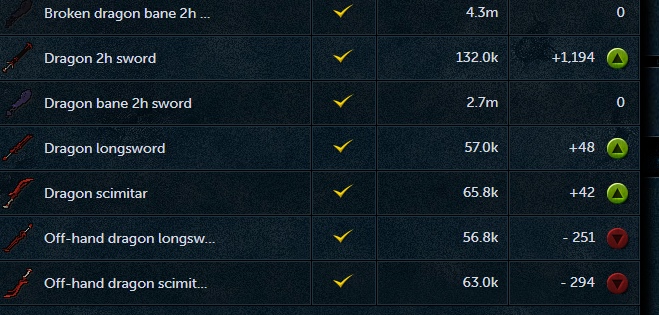
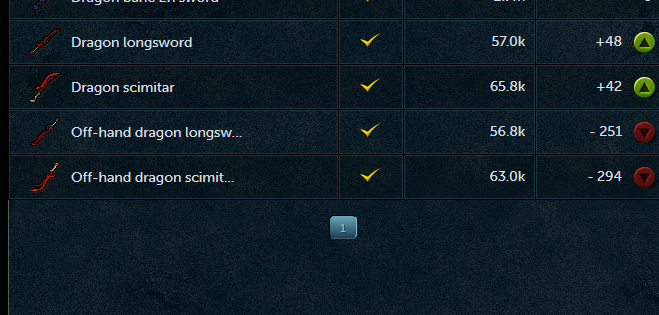
More fun

Changed region(s): [[0.0, 0.0, 1.0, 1.0], [0.698, 0.8571, 0.7891, 0.9143], [0.698, 0.7143, 0.7587, 0.7714]]

diff --git a/src/api/PowerSearch/PowerSearch.ts b/src/api/PowerSearch/PowerSearch.ts
@@ -2,6 +2,7 @@ import puppeteer from 'puppeteer';
 import * as cheerio from 'cheerio';
 import Handlebars from 'handlebars';
 import fs from 'fs';
+import { listenerCount } from 'process';
 
 interface ItemData {
   image: string,
@@ -38,7 +39,7 @@ const search = async (query: string) => {
     }
   }
 
-  const browser = await puppeteer.launch({ headless: false});
+  const browser = await puppeteer.launch({ headless: false, args: ['--start-maximized'], defaultViewport: null});
   const page = await browser.newPage();
   const log = console.log;
 
@@ -58,12 +59,15 @@ const search = async (query: string) => {
   await page.click('input.search-submit');
   await page.waitForNetworkIdle();
   const divCount = await doesSelectorExist(page, 'tbody');
+
   if (!divCount) {
     data.errors = true;
     data.errorMessages.push('No results found');
     console.log('No results found ... returning data and exiting session!');
+    // await browser.close();
     return data;
   };
+  
   const table = await page.$('#grandexchange > div > div.contents > main > div.content.roughTop > table > tbody');
   table?.screenshot({ path: 'table.png' });
 
@@ -81,7 +85,6 @@ const search = async (query: string) => {
     if (data?.pageData?.currentPage) {
       data.pageData.currentPage = i;
     }
-    console.log(`Page ${i} of ${data?.pageData?.totalPageNumber}`);
     // if i = total page number break
     if (i === data?.pageData?.totalPageNumber) {
       break;
@@ -94,32 +97,44 @@ const search = async (query: string) => {
   data.matchedResults = checkForMatches(query, data?.items ?? []);
   if (data.matchedResults?.length === 1) {
     data.exactMatch = data.matchedResults[0];
+    console.log('Exact match found!', data.exactMatch.name);
+    // await browser.close();
+    return data;
   }
 
   if (data.matchedResults?.length === 0 && data?.items?.length) {
-    data.errors = true;
-    data.errorMessages.push('No exact matches found');
-  }
-
-  console.log(data)
-  if (data?.items) {
-    screenShotResults(browser, data.items);
+    screenShotResults(browser, data?.items);
+    console.log('No exact match found, but results found!', data.items.length);
+    // await browser.close();
+    return data;
   }
 };
 
 const goToNextPage =  async (page: any, pageNumber: number) => {
+  console.log('tring to go to page: ', pageNumber);
   await page.waitForNetworkIdle();
-  await page.click(`#grandexchange > div > div.contents > main > div.content.roughTop > div > div > div > ul > li:nth-child(${pageNumber})`);
+  await page.waitForTimeout(1000);
+  const position = await page.$$eval('#grandexchange > div > div.contents > main > div.content.roughTop > div > div > div > ul > li', (el: any, pageNumber: number) => {
+    let stuff: any[] = [];
+    el.forEach((e: any, i: number) => {
+      stuff.push(el[i].innerText);
+    });
+    return stuff;
+  }, pageNumber);
+  console.log('position', position);
+  const truePostition = parseInt(position.findIndex((e: any) => parseInt(e) === pageNumber));
+  console.log('truePostition: ', truePostition);
+  await page.click(`#grandexchange > div > div.contents > main > div.content.roughTop > div > div > div > ul > li:nth-child(${truePostition + 1})`);
   await page.waitForNetworkIdle();
 }
 
 const getPageData = async function (page: any) {
   const trs = await page.evaluate(async () => {
-    const totalPages = document.querySelectorAll('#grandexchange > div > div.contents > main > div.content.roughTop > div > div > div > ul > li');
+    const totalPages = document.querySelectorAll('#grandexchange > div > div.contents > main > div.content.roughTop > div > div > div > ul > li:last-child')[0].querySelector('a')?.innerText?? '1';
     const currentPageNumber = document.querySelectorAll('#grandexchange > div > div.contents > main > div.content.roughTop > div > div > div > ul > li.current')[0];
     const data: PageData = {
       currentPage: parseInt(currentPageNumber.querySelectorAll('a')[0].innerText),
-      totalPageNumber: totalPages.length,
+      totalPageNumber: parseInt(totalPages),
     }
     return data;
   });
@@ -157,38 +172,35 @@ const doesSelectorExist = async (page: any, selector: string): Promise<boolean> 
   return await page.$(selector)? true: false;
 }
 
-const checkForMatches = (query: string, item: ItemData[]): ItemData[] => {
+const checkForMatches = (query: string, item: any): ItemData[] => {
   const match = item.filter((item: any) => {
     return item.name.toLowerCase() === query.toLowerCase();
   });
-  console.log('this is match count', match.length);
   return match;
 }
 
 
 const getHandleBarsTemplateFile = (): string => {
-  return fs.readFileSync(`./ResultsTable.hbs`, 'utf8');
+  return fs.readFileSync(`./src/api/PowerSearch/ResultsTable.hbs`, 'utf8');
 }
 
 const getHandleBarsTemplateCompiled = (items: any): any =>{
   return Handlebars.compile(getHandleBarsTemplateFile())(items);
 }
 
-const screenShotResults = async (browser: any, dataItems: DataReturn) => {
+const screenShotResults = async (browser: any, dataItems: any) => {
   const page = await browser.newPage();
-  await page.setViewport({
-    width: 1280,
-    height: 800,
-  });
+
   const build = {
     name: 'trey',
     items: { ...dataItems }
   }
   await page.setContent(getHandleBarsTemplateCompiled({ data: build.items }));
   const table = await page.$('body > div > div > table');
-  console.log('We are after table');
-  await table.screenshot({ path: 'choiceResult.png' });
-  await page.close();
+  // get height and width of element
+  const { height, width } = await table.boundingBox();
+  await page.screenshot({'path': 'choiceResult.png', 'clip': {'x': 0, 'y': 0, 'width': width, 'height': height } });  
+  page.close();
 }
 
-search('dragon sword');
+export { search };

diff --git a/src/commands/slash/price-check/price-check.ts b/src/commands/slash/price-check/price-check.ts
@@ -1,0 +1,71 @@
+import {
+  ButtonInteraction,
+  CommandInteraction,
+  MessageButton,
+  MessageActionRow,
+  MessageEmbed
+} from "discord.js";
+import { ButtonComponent, Discord, Slash, SlashOption } from "discordx";
+import { UserData } from '../../../api/UserData.js';
+import { Hbs } from '../../../api/HBars.js';
+import { search } from '../../../api/PowerSearch/PowerSearch.js';
+
+const hbs = new Hbs(import.meta.url);
+
+@Discord()
+class buttonExample {
+  id!: string;
+  itemName!: string;
+  @Slash("price-check")
+  async priceCheck(
+    @SlashOption("item-name", { type: "STRING", description: "The item name to search" })
+    itemName: string,
+    interaction: CommandInteraction
+  ) {
+    if (!itemName) {
+      await interaction.deferReply();
+      return interaction.editReply("You need to provide an item name 😬");
+    }
+    this.itemName = itemName;
+    const itemData = await search(itemName);
+    console.log(itemData?.items?.length);
+    if (!itemData?.items?.length && !itemData?.exactMatch) {
+      await interaction.deferReply();
+      return interaction.editReply("No item found matching your search criteria 😬");
+    }
+
+    if (itemData?.items?.length && !itemData?.exactMatch) {
+      interaction.reply('this is where I would attach the file if I could.');
+      return;
+    }
+    console.log('exact match: ', itemData?.exactMatch);
+
+    const helloBtn = new MessageButton()
+    .setLabel("List all Skills?")
+    .setEmoji("👋")
+    .setStyle("PRIMARY")
+    .setCustomId("skills-btn");
+
+    const row = new MessageActionRow().addComponents(helloBtn);
+
+    interaction.editReply({
+      content: 'found your item bro',
+      components: [row],
+    });
+
+    setTimeout(function() {
+      interaction.deleteReply();
+    }, 60000);
+  }
+
+  // @ButtonComponent("skills-btn")
+  // async mybtn(interaction: ButtonInteraction) {
+
+  //   if (!this.itemName) {
+  //     return interaction.reply('This button does not work anymore.😢');
+  //   }
+  //   interaction.deferReply({ephemeral: true});
+  //   const userData = await new UserData(this.itemName).getUserData();
+  //   interaction.editReply(hbs.getHandleBarsTemplateCompiled({ showSkills: true, ...userData}));
+  // }
+}

diff --git a/src/api/PowerSearch/SearchById.ts b/src/api/PowerSearch/SearchById.ts
@@ -1,0 +1,20 @@
+import fetch from 'node-fetch';
+
+export class SearchById {
+    id: string;
+    constructor(id: string) {
+        if (!id) {
+            throw new Error('No user name provided');
+        }
+        this.id = id;
+    }
+    async getUserData() {
+        try {
+            const request = await fetch(`https://services.runescape.com/m=itemdb_rs/api/catalogue/detail.json?item=${this.id}`);
+            const data = await request.json();
+            return data;
+        } catch (error: any) {
+            throw new Error(error);
+        }
+    }
+}
